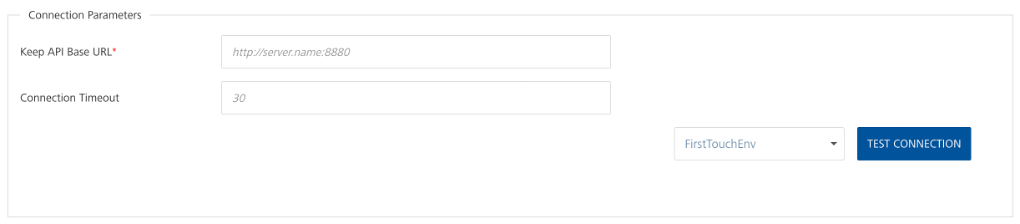
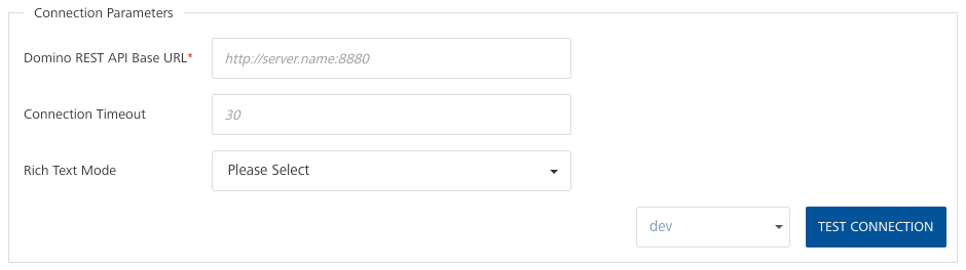
updated tutorial and reference

diff --git a/docs/tutorials/firsttouch.md b/docs/tutorials/firsttouch.md
@@ -6,7 +6,6 @@ This tutorial guides you in accessing and running the First Touch Recipe Catalog
 
 - You have completed the [Volt MX Go installation](installation.md).
 - You have created your [Foundry admin account](../howto/foundryadminaccount.md).
-- You have [downloaded the FirstTouchRecipes_NSF_EA3.zip](portaldownload.md) file, extracted the NSF file from the zip file, and copied the NSF file to the root of the data directory of your Domino server.
 
 ### Additional prerequisites
 
@@ -18,6 +17,7 @@ If you used the Volt MX Go native installers, you need to perform the following 
     !!!note
         You don't need to perform The *Create Foundry Identity Service* and the *Set up Domino REST API application and database* procedures included in the same webpage that contain the *Set up Domino REST API* procedure as they aren't applicable to First Touch.
 
+- You have [downloaded the FirstTouchRecipes_NSF_EA3.zip](portaldownload.md) file, extracted the NSF file from the zip file, and copied the NSF file to the root of the data directory of your Domino server.
 
 ## Log in to Volt MX Go Foundry
 

diff --git a/docs/tutorials/adaptertutorial.md b/docs/tutorials/adaptertutorial.md
@@ -124,9 +124,12 @@ The tutorial guides you in creating an app in Foundry and connecting the app to 
 
     1. Enter the Domino REST API server URL in the **Domino REST API Base URL** text field.
     2. Enter a value in the **Connection Timeout** text field. By default, the value is set to 30 ms.
+    3. Choose either MIME or HTML from the **Rich Text Mode** dropdown list. 
      
     !!!note
-        The **Connection Timeout** is the period for waiting for a new connection to happen before aborting the connection attempt, and is in milliseconds.  
+        - The **Connection Timeout** is the period for waiting for a new connection to happen before aborting the connection attempt, and is in milliseconds.
+        - MIME is the default if no option is selected in **Rich Text Mode**.
+        - If you want to use MIME and HTML as Rich Text modes, you have to create separate object services, one for HTML and one for MIME.    
 
     ![](../assets/images/objectconparam.png)
 

diff --git a/docs/references/index.md b/docs/references/index.md
@@ -22,6 +22,17 @@ The full specification of the API is available in a structured format in the [Ro
 
 Describes different [logging levels](reflogginglevels.md) for better monitoring and evaluation of activities and events. 
 
+## Documentation references
+
+[HCL Volt MX Documentation V9.5](https://opensource.hcltechsw.com/volt-mx-docs/95/docs/documentation/index.html){: target="_blank"}
+
+- Provides documentation and more information about Iris and Foundry.
+
+[HCL Domino REST API Documentation](https://opensource.hcltechsw.com/Domino-rest-api/index.html){: target="_blank"}
+
+- Provides documentation and more information about Domino REST API. 
+
+
 <!--## HCL Domino REST API formerly known as HCL Project KEEP
 
 HCL Project KEEP has been re-branded to HCL Domino REST API to align with the HCL Volt MX Go strategy. However, you might still find references to the KEEP branding throughout the product and in the documentation.

diff --git a/docs/tutorials/nativeinstallers.md b/docs/tutorials/nativeinstallers.md
@@ -37,7 +37,7 @@ For more information, see the [Installation and configuration](https://opensourc
 3. Follow the links to the installation guides based on your preferred installation platform/option:
 
     !!!warning "Important"
-        Make sure to check all the details and complete all the procedures indicated in the sections in the installation guides. 
+        Make sure to check all the details and complete all the applicable procedures indicated in the sections in the installation guides. 
 
     - [For Windows](https://opensource.hcltechsw.com/volt-mx-docs/95/docs/documentation/Foundry/voltmx_foundry_windows_install_guide/Content/Introduction.html){: target="_blank"}
     - [For Linux](https://opensource.hcltechsw.com/volt-mx-docs/95/docs/documentation/Foundry/voltmx_foundry_linux_install_guide/Content/Introduction.html){: target="_blank"}

diff --git a/docs/tutorials/installfoundry.md b/docs/tutorials/installfoundry.md
@@ -92,6 +92,7 @@ The procedures will guide you in the installation of Foundry.
 **Foundry is now available at [http://foundry.mymxgo.com/mfconsole/](http://foundry.mymxgo.com/mfconsole/)**.
 
 !!!note
+    - If you defined a different Foundry host name, the Foundry URL would be the defined Foundry host name concatenated with `/mfconsole/`.
     - If you want to access this deployment from a remote machine, you most likely need to update the `/etc/hosts` file on the remote machine as well.
     - To create an account, see [Create a Foundry administrator account](../howto/foundryadminaccount.md).
     - To connect to Domino server from your Notes client, see [Connect to Domino server from your Notes client](../howto/connectdominofromnotes.md).
